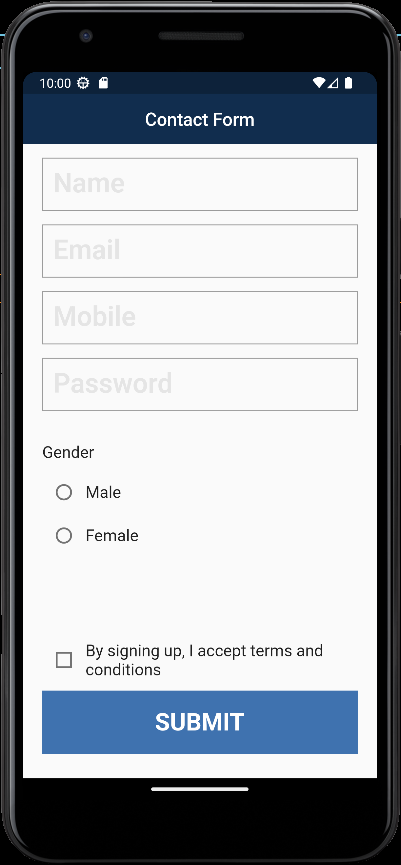
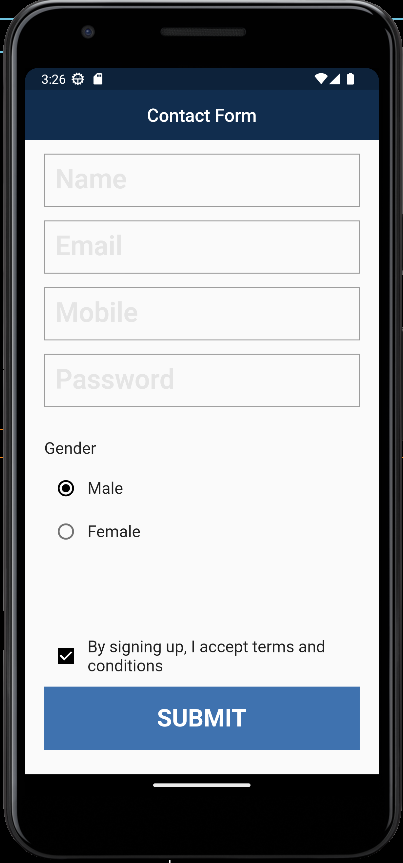
FInal commit, All done

diff --git a/lib/screens/practice_19.dart b/lib/screens/practice_19.dart
@@ -17,7 +17,7 @@ class _MyWidgetState extends State<Practice19> {
   TextEditingController _passwordCtrl = TextEditingController();
   bool _isTermsAccepted = false;
   
-  get genderVal => null;
+  String genderVal = "male";
 
   @override
   Widget build(BuildContext context) {
@@ -97,13 +97,15 @@ class _MyWidgetState extends State<Practice19> {
               const SizedBox(
                 height: 10,
               ),
+              //Radio Buttons
               Row(
                 children: [
                   Radio(
-                    value: _isTermsAccepted,
-                    onChanged: (genderVal) {
+                    activeColor: Colors.black,
+                    value: "male",
+                    onChanged: (val) {
                       setState(() {
-                        genderVal = genderVal!;
+                        genderVal = val!;
                       });
                     },
                     groupValue: genderVal,
@@ -119,10 +121,11 @@ class _MyWidgetState extends State<Practice19> {
               Row(
                 children: [
                   Radio(
-                    value: _isTermsAccepted,
-                    onChanged: (genderVal) {
+                    activeColor: Colors.black,
+                    value: "female",
+                    onChanged: (val) {
                       setState(() {
-                        genderVal = genderVal!;
+                        genderVal = val!;
                       });
                     },
                     groupValue: genderVal,
@@ -140,7 +143,8 @@ class _MyWidgetState extends State<Practice19> {
                 children: [
                   Checkbox(
                       value: _isTermsAccepted,
-                      checkColor: Colors.red,
+                      checkColor: Colors.white,
+                      activeColor: Colors.black,
                       onChanged: (val) {
                         setState(() {
                           _isTermsAccepted = val!;
